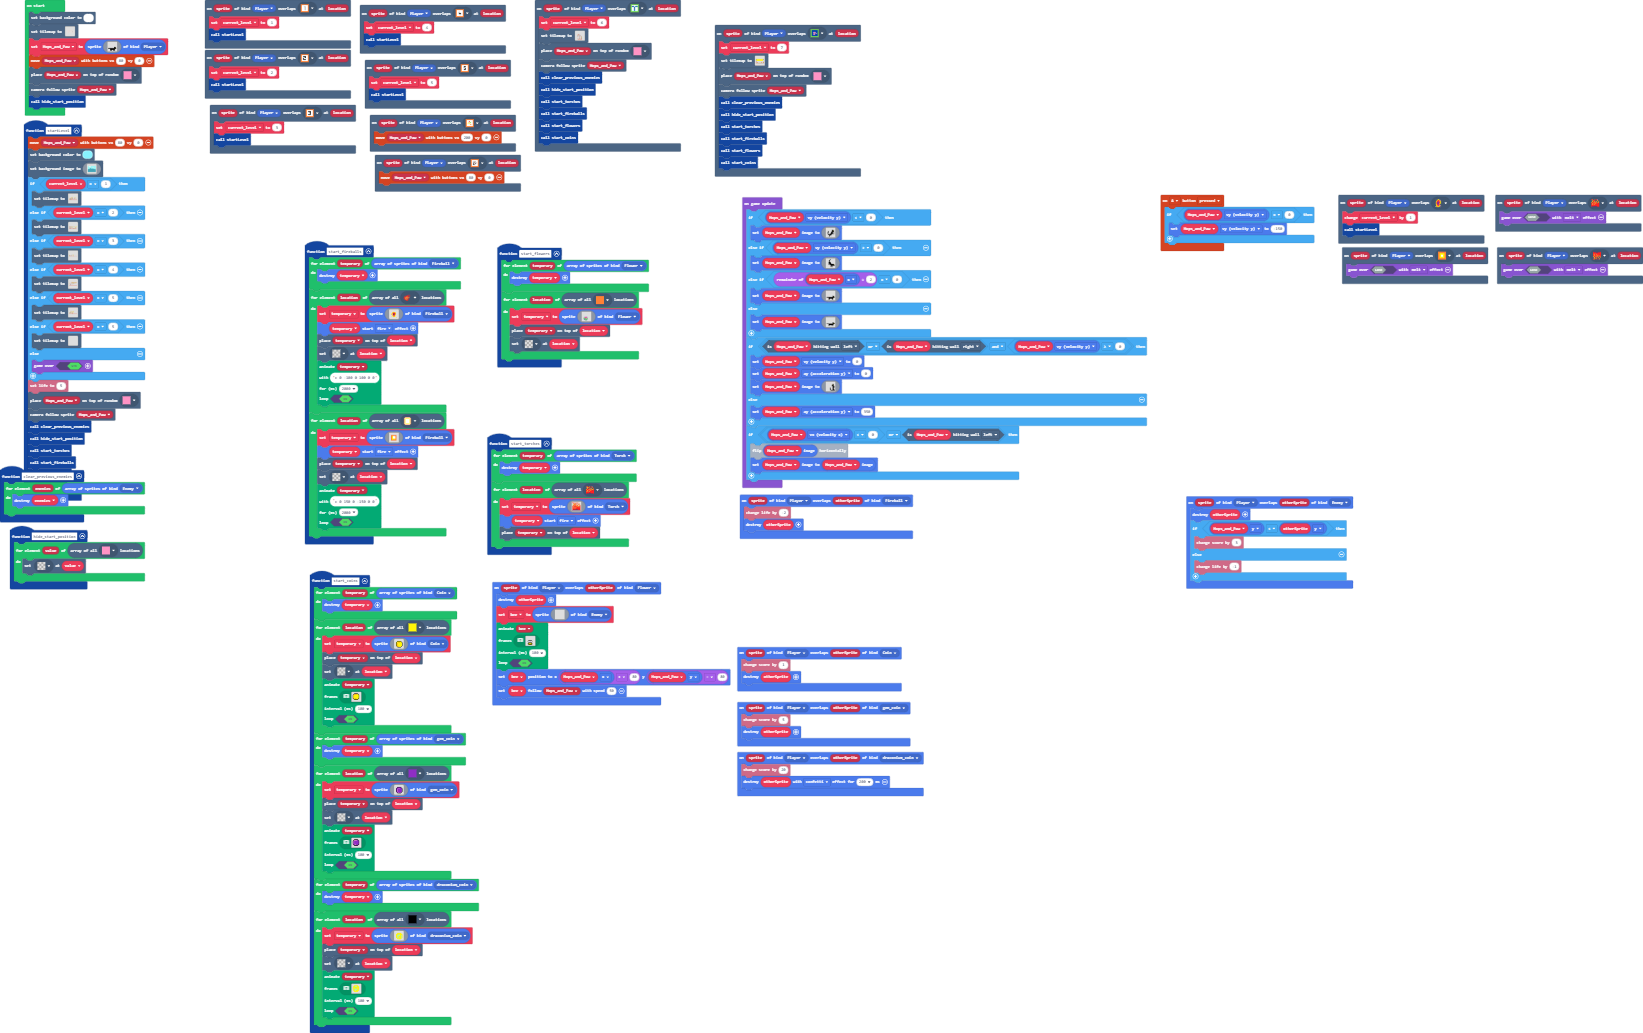
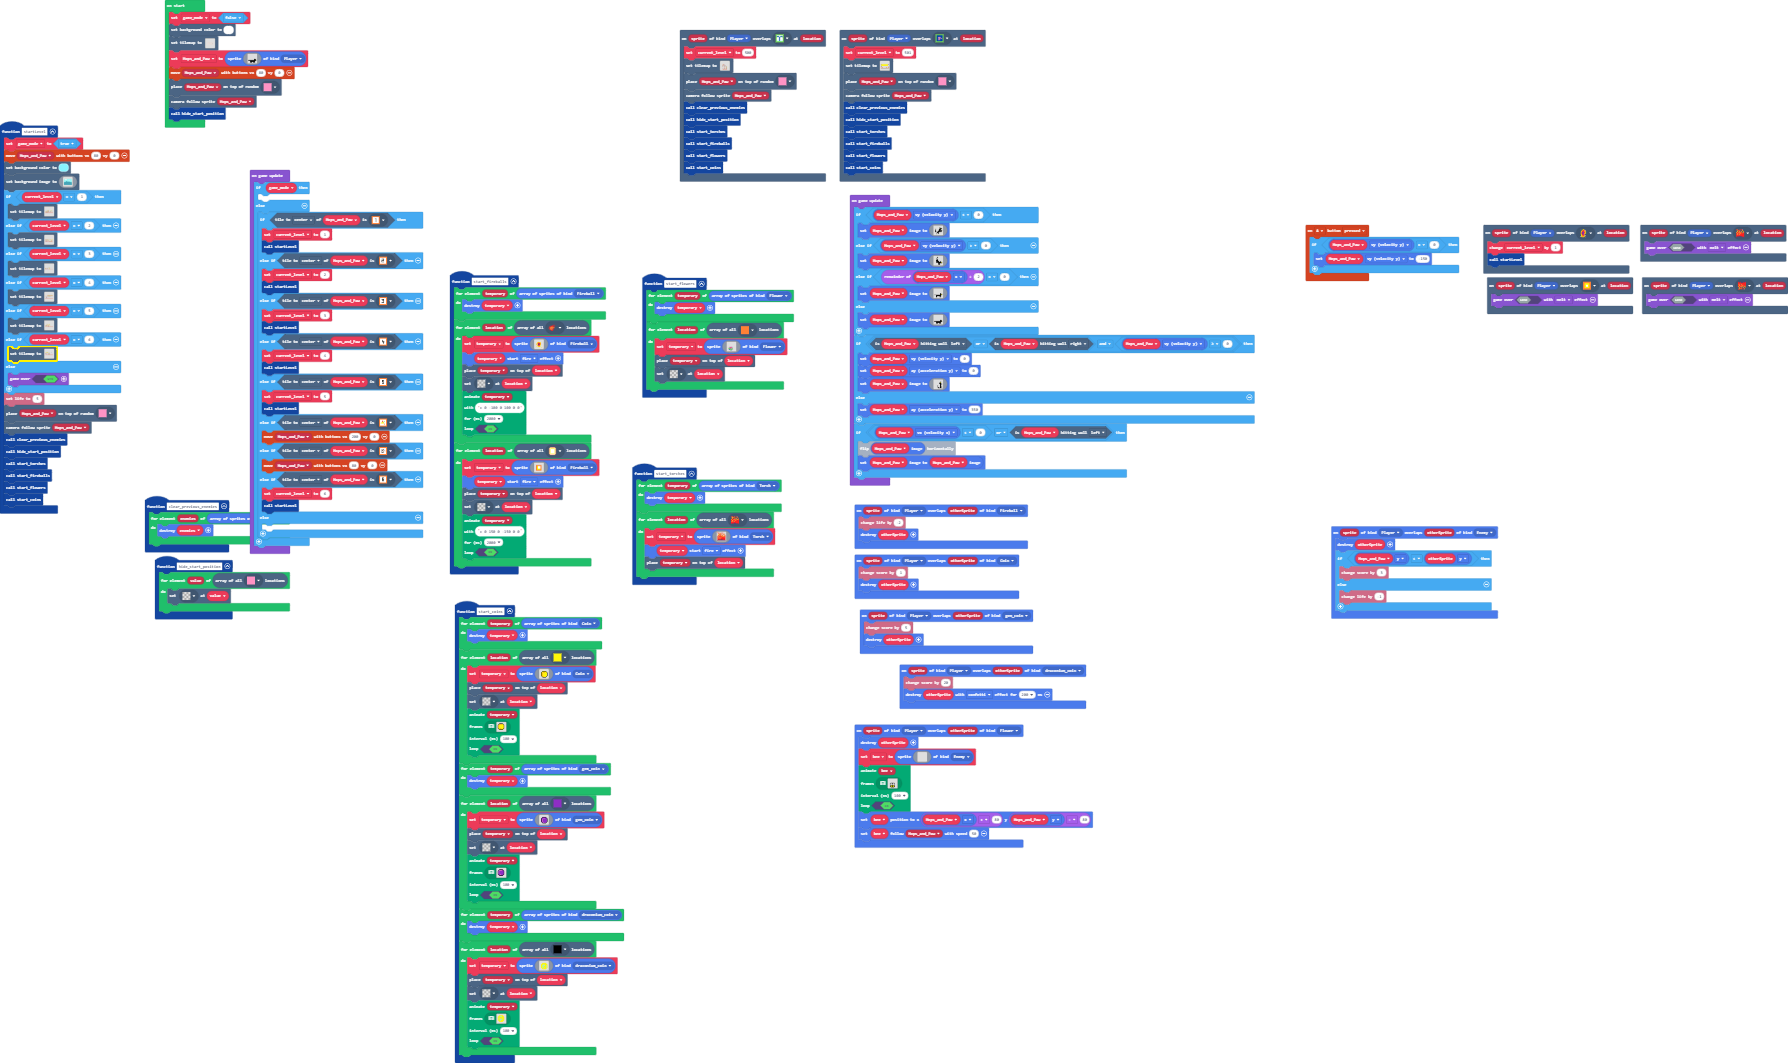
level 6 added

diff --git a/tilemap.g.ts b/tilemap.g.ts
@@ -82,6 +82,10 @@ namespace myTiles {
     export const tile39 = image.ofBuffer(hex``);
     //% fixedInstance jres blockIdentity=images._tile
     export const tile36 = image.ofBuffer(hex``);
+    //% fixedInstance jres blockIdentity=images._tile
+    export const tile40 = image.ofBuffer(hex``);
+    //% fixedInstance jres blockIdentity=images._tile
+    export const tile41 = image.ofBuffer(hex``);
 
     helpers._registerFactory("tilemap", function(name: string) {
         switch(helpers.stringTrim(name)) {
@@ -456,67 +460,6 @@ namespace myTiles {
 ..........222.....................................
 ..........222.....................................
 `, [myTiles.tile0,myTiles.tile1,myTiles.tile3,myTiles.tile4,myTiles.tile7,myTiles.tile12,myTiles.tile13,myTiles.tile15,myTiles.tile6,myTiles.tile9,myTiles.tile8,myTiles.tile14,myTiles.tile2,myTiles.tile16,myTiles.tile17,myTiles.tile18,myTiles.tile19,myTiles.tile5,myTiles.transparency16,myTiles.tile10,myTiles.tile20,myTiles.tile25,myTiles.tile27,myTiles.tile36], TileScale.Sixteen);
-            case "level6":
[1 lines of base64/hex data omitted]
-..................................................
-..................................................
-...........................2......................
-..................................................
-............................2.....................
-..................................................
-..........2.....22................................
-.......................2...2......................
-..................................................
-..................................................
-......................2...........................
-..................................................
-....................2.............................
-......2....2.2..2.................................
-2222...222........2....2..........................
-..................2...............................
-..................................................
-.......................2..........................
-....................2..2..........................
-..................................................
-`, [myTiles.transparency16,myTiles.tile1,myTiles.tile2,myTiles.tile3,myTiles.tile4,myTiles.tile6,myTiles.tile9,myTiles.tile10,myTiles.tile16,myTiles.tile19,myTiles.tile22,myTiles.tile23,myTiles.tile25,myTiles.tile28,myTiles.tile29,myTiles.tile26,myTiles.tile30,myTiles.tile36], TileScale.Sixteen);
-            case "level8":
[1 lines of base64/hex data omitted]
-.........................
-.........................
-.........................
-.........................
-.........................
-.....222222222222222222..
-.....2.....2..........2..
-.....2.....2..........2..
-.....2................2..
-.....2222222222222222.2..
-.....2................2..
-.....2................2..
-.....2................2..
-.....222222222222222222..
-.........................
-.........................
-`, [myTiles.transparency16,sprites.builtin.brick,myTiles.tile6,myTiles.tile31,myTiles.tile32,myTiles.tile33,myTiles.tile34,myTiles.tile35,sprites.dungeon.buttonTealDepressed,myTiles.tile37,myTiles.tile38,myTiles.tile36], TileScale.Sixteen);
-            case "level20":
-            case "level20":return tiles.createTilemap(hex`1000100000000000000000000000000000000000000000000000000000000000000000000000000000000000000000000000000000000000000000000000000000000000000000000000000000000000000000000000000000000000000000000000000000000000000000000000000000000000000000000000000000000000000000000000000000000000000000000000000000000000000000000000000000000000000000000000000000000000000000000000000000000000000000000000000000000000000000000000000000000000000000000000000000000000000000000000000000000000000000000000000000000000000000000000000000000000`, img`
-. . . . . . . . . . . . . . . . 
-. . . . . . . . . . . . . . . . 
-. . . . . . . . . . . . . . . . 
-. . . . . . . . . . . . . . . . 
-. . . . . . . . . . . . . . . . 
-. . . . . . . . . . . . . . . . 
-. . . . . . . . . . . . . . . . 
-. . . . . . . . . . . . . . . . 
-. . . . . . . . . . . . . . . . 
-. . . . . . . . . . . . . . . . 
-. . . . . . . . . . . . . . . . 
-. . . . . . . . . . . . . . . . 
-. . . . . . . . . . . . . . . . 
-. . . . . . . . . . . . . . . . 
-. . . . . . . . . . . . . . . . 
-. . . . . . . . . . . . . . . . 
-`, [myTiles.transparency16,myTiles.tile38,myTiles.tile36,myTiles.tile39], TileScale.Sixteen);
             case "level21":
             case "level21":return tiles.createTilemap(hex`1000100000000000000000000000000000000000000000000000000000000000000000000000000000000000000000000000000000000000000000000000000000000000000000000000000000000000000000000000000000000000000000000000000000000000000000000000000000000000000000000000000000000000000000000000000000000000000000000000000000000000000000000000000000000000000000000000000000000000000000000000000000000000000000000000000000000000000000000000000000000000000000000000000000000000000000000000000000000000000000000000000000000000000000000000000000000000`, img`
 . . . . . . . . . . . . . . . . 
@@ -616,6 +559,67 @@ namespace myTiles {
 .......................................2..........
 ..................................................
 `, [myTiles.tile0,myTiles.tile1,myTiles.tile2,myTiles.tile3,myTiles.tile4,myTiles.tile5,myTiles.tile6,myTiles.tile9,myTiles.tile10,myTiles.tile11,myTiles.tile8,myTiles.tile12,myTiles.tile13,myTiles.tile16,myTiles.tile18,myTiles.tile21,myTiles.tile15,myTiles.tile14,myTiles.tile24,myTiles.tile25,myTiles.tile26,myTiles.tile39], TileScale.Sixteen);
+            case "level6":
[1 lines of base64/hex data omitted]
+..................................................
+..................................................
+...........................2......................
+..................................................
+............................2.....................
+..................................................
+..........2.....22................................
+.......................2...2......................
+..................................................
+..................................................
+......................2...........................
+..................................................
+....................2.............................
+......2....2.2..2.................................
+2222...222........2....2..........................
+..................2...............................
+..................................................
+.......................2..........................
+....................2..2..........................
+..................................................
+`, [myTiles.transparency16,myTiles.tile1,myTiles.tile2,myTiles.tile3,myTiles.tile4,myTiles.tile6,myTiles.tile9,myTiles.tile10,myTiles.tile16,myTiles.tile19,myTiles.tile22,myTiles.tile23,myTiles.tile25,myTiles.tile28,myTiles.tile29,myTiles.tile26,myTiles.tile30,myTiles.tile36], TileScale.Sixteen);
+            case "level8":
[1 lines of base64/hex data omitted]
+.........................
+.........................
+.........................
+.........................
+.........................
+.....222222222222222222..
+.....2.....2..........2..
+.....2.....2..........2..
+.....2................2..
+.....2222222222222222.2..
+.....2................2..
+.....2................2..
+.....2................2..
+.....222222222222222222..
+.........................
+.........................
+`, [myTiles.transparency16,sprites.builtin.brick,myTiles.tile6,myTiles.tile31,myTiles.tile32,myTiles.tile33,myTiles.tile34,myTiles.tile35,sprites.dungeon.buttonTealDepressed,myTiles.tile37,myTiles.tile38,myTiles.tile40], TileScale.Sixteen);
+            case "level20":
[1 lines of base64/hex data omitted]
+..................................................
+..................................................
+..................................................
+.....222............2.....2.....2222222...........
+.....222..........................................
+...22..2..........................................
+..................................................
+..................................................
+222...............................................
+......................2...2.......................
+..................................................
+..................................................
+......................2...........................
+..................................................
+..................................................
+..................................................
+`, [myTiles.transparency16,myTiles.tile1,myTiles.tile2,myTiles.tile3,myTiles.tile4,myTiles.tile5,myTiles.tile6,myTiles.tile7,myTiles.tile9,myTiles.tile10,myTiles.tile13,myTiles.tile15,myTiles.tile22,myTiles.tile25,myTiles.tile29,myTiles.tile26,myTiles.tile30,myTiles.tile41], TileScale.Sixteen);
         }
         return null;
     })
@@ -692,6 +696,10 @@ namespace myTiles {
             case "tile39":return tile39;
             case "myTile23":
             case "tile36":return tile36;
+            case "myTile27":
+            case "tile40":return tile40;
+            case "myTile28":
+            case "tile41":return tile41;
         }
         return null;
     })

diff --git a/main.ts b/main.ts
@@ -6,10 +6,6 @@ namespace SpriteKind {
     export const gem_coin = SpriteKind.create()
     export const draconium_coin = SpriteKind.create()
 }
-scene.onOverlapTile(SpriteKind.Player, assets.tile`myTile19`, function (sprite, location) {
-    current_level = 2
-    startLevel()
-})
 sprites.onOverlap(SpriteKind.Player, SpriteKind.Coin, function (sprite, otherSprite) {
     info.changeScoreBy(1)
     otherSprite.destroy()
@@ -104,37 +100,19 @@ function start_fireballs () {
         )
     }
 }
-scene.onOverlapTile(SpriteKind.Player, assets.tile`myTile22`, function (sprite, location) {
-    current_level = 5
-    startLevel()
-})
-scene.onOverlapTile(SpriteKind.Player, assets.tile`myTile24`, function (sprite, location) {
-    controller.moveSprite(Hops_and_Paw, 200, 0)
-})
 controller.A.onEvent(ControllerButtonEvent.Pressed, function () {
     if (Hops_and_Paw.vy == 0) {
         Hops_and_Paw.vy = -150
     }
 })
-scene.onOverlapTile(SpriteKind.Player, assets.tile`myTile25`, function (sprite, location) {
-    controller.moveSprite(Hops_and_Paw, 80, 0)
-})
 scene.onOverlapTile(SpriteKind.Player, assets.tile`tile3`, function (sprite, location) {
     game.over(false, effects.melt)
-})
-scene.onOverlapTile(SpriteKind.Player, assets.tile`myTile18`, function (sprite, location) {
-    current_level = 1
-    startLevel()
 })
 function hide_start_position () {
     for (let value of tiles.getTilesByType(assets.tile`tile6`)) {
         tiles.setTileAt(value, assets.tile`tile0`)
     }
 }
-scene.onOverlapTile(SpriteKind.Player, assets.tile`myTile21`, function (sprite, location) {
-    current_level = 4
-    startLevel()
-})
 scene.onOverlapTile(SpriteKind.Player, assets.tile`myTile16`, function (sprite, location) {
     game.over(false, effects.melt)
 })
@@ -168,10 +146,6 @@ function start_torches () {
 sprites.onOverlap(SpriteKind.Player, SpriteKind.draconium_coin, function (sprite, otherSprite) {
     info.changeScoreBy(20)
     otherSprite.destroy(effects.confetti, 200)
-})
-scene.onOverlapTile(SpriteKind.Player, assets.tile`myTile20`, function (sprite, location) {
-    current_level = 3
-    startLevel()
 })
 function start_coins () {
     for (let temporary of sprites.allOfKind(SpriteKind.Coin)) {
@@ -808,6 +782,7 @@ sprites.onOverlap(SpriteKind.Player, SpriteKind.Fireball, function (sprite, othe
     otherSprite.destroy()
 })
 function startLevel () {
+    game_mode = true
     controller.moveSprite(Hops_and_Paw, 80, 0)
     scene.setBackgroundColor(9)
     scene.setBackgroundImage(img`
@@ -942,7 +917,7 @@ function startLevel () {
         tiles.setTilemap(tilemap`level5`)
     } else if (current_level == 5) {
         tiles.setTilemap(tilemap`level6`)
-    } else if (current_level == 5) {
+    } else if (current_level == 6) {
         tiles.setTilemap(tilemap`level20`)
     } else {
         game.over(true)
@@ -958,7 +933,7 @@ function startLevel () {
     start_coins()
 }
 scene.onOverlapTile(SpriteKind.Player, assets.tile`myTile23`, function (sprite, location) {
-    current_level = 6
+    current_level = 500
     tiles.setTilemap(tilemap`level14`)
     tiles.placeOnRandomTile(Hops_and_Paw, assets.tile`tile6`)
     scene.cameraFollowSprite(Hops_and_Paw)
@@ -973,7 +948,7 @@ scene.onOverlapTile(SpriteKind.Player, assets.tile`myTile14`, function (sprite, 
     game.over(false, effects.melt)
 })
 scene.onOverlapTile(SpriteKind.Player, assets.tile`myTile26`, function (sprite, location) {
-    current_level = 7
+    current_level = 501
     tiles.setTilemap(tilemap`level22`)
     tiles.placeOnRandomTile(Hops_and_Paw, assets.tile`tile6`)
     scene.cameraFollowSprite(Hops_and_Paw)
@@ -993,9 +968,11 @@ sprites.onOverlap(SpriteKind.Player, SpriteKind.Enemy, function (sprite, otherSp
     }
 })
 let bee: Sprite = null
-let temporary: Sprite = null
 let current_level = 0
+let temporary: Sprite = null
 let Hops_and_Paw: Sprite = null
+let game_mode = false
+game_mode = false
 scene.setBackgroundColor(1)
 tiles.setTilemap(tilemap`level8`)
 Hops_and_Paw = sprites.create(img`
@@ -1020,6 +997,37 @@ controller.moveSprite(Hops_and_Paw, 80, 0)
 tiles.placeOnRandomTile(Hops_and_Paw, assets.tile`tile6`)
 scene.cameraFollowSprite(Hops_and_Paw)
 hide_start_position()
+game.onUpdate(function () {
+    if (game_mode) {
+    	
+    } else {
+        if (Hops_and_Paw.tileKindAt(TileDirection.Center, assets.tile`myTile18`)) {
+            current_level = 1
+            startLevel()
+        } else if (Hops_and_Paw.tileKindAt(TileDirection.Center, assets.tile`myTile19`)) {
+            current_level = 2
+            startLevel()
+        } else if (Hops_and_Paw.tileKindAt(TileDirection.Center, assets.tile`myTile20`)) {
+            current_level = 3
+            startLevel()
+        } else if (Hops_and_Paw.tileKindAt(TileDirection.Center, assets.tile`myTile21`)) {
+            current_level = 4
+            startLevel()
+        } else if (Hops_and_Paw.tileKindAt(TileDirection.Center, assets.tile`myTile22`)) {
+            current_level = 5
+            startLevel()
+        } else if (Hops_and_Paw.tileKindAt(TileDirection.Center, assets.tile`myTile24`)) {
+            controller.moveSprite(Hops_and_Paw, 200, 0)
+        } else if (Hops_and_Paw.tileKindAt(TileDirection.Center, assets.tile`myTile25`)) {
+            controller.moveSprite(Hops_and_Paw, 80, 0)
+        } else if (Hops_and_Paw.tileKindAt(TileDirection.Center, assets.tile`myTile27`)) {
+            current_level = 6
+            startLevel()
+        } else {
+        	
+        }
+    }
+})
 game.onUpdate(function () {
     if (Hops_and_Paw.vy < 0) {
         Hops_and_Paw.setImage(img`
